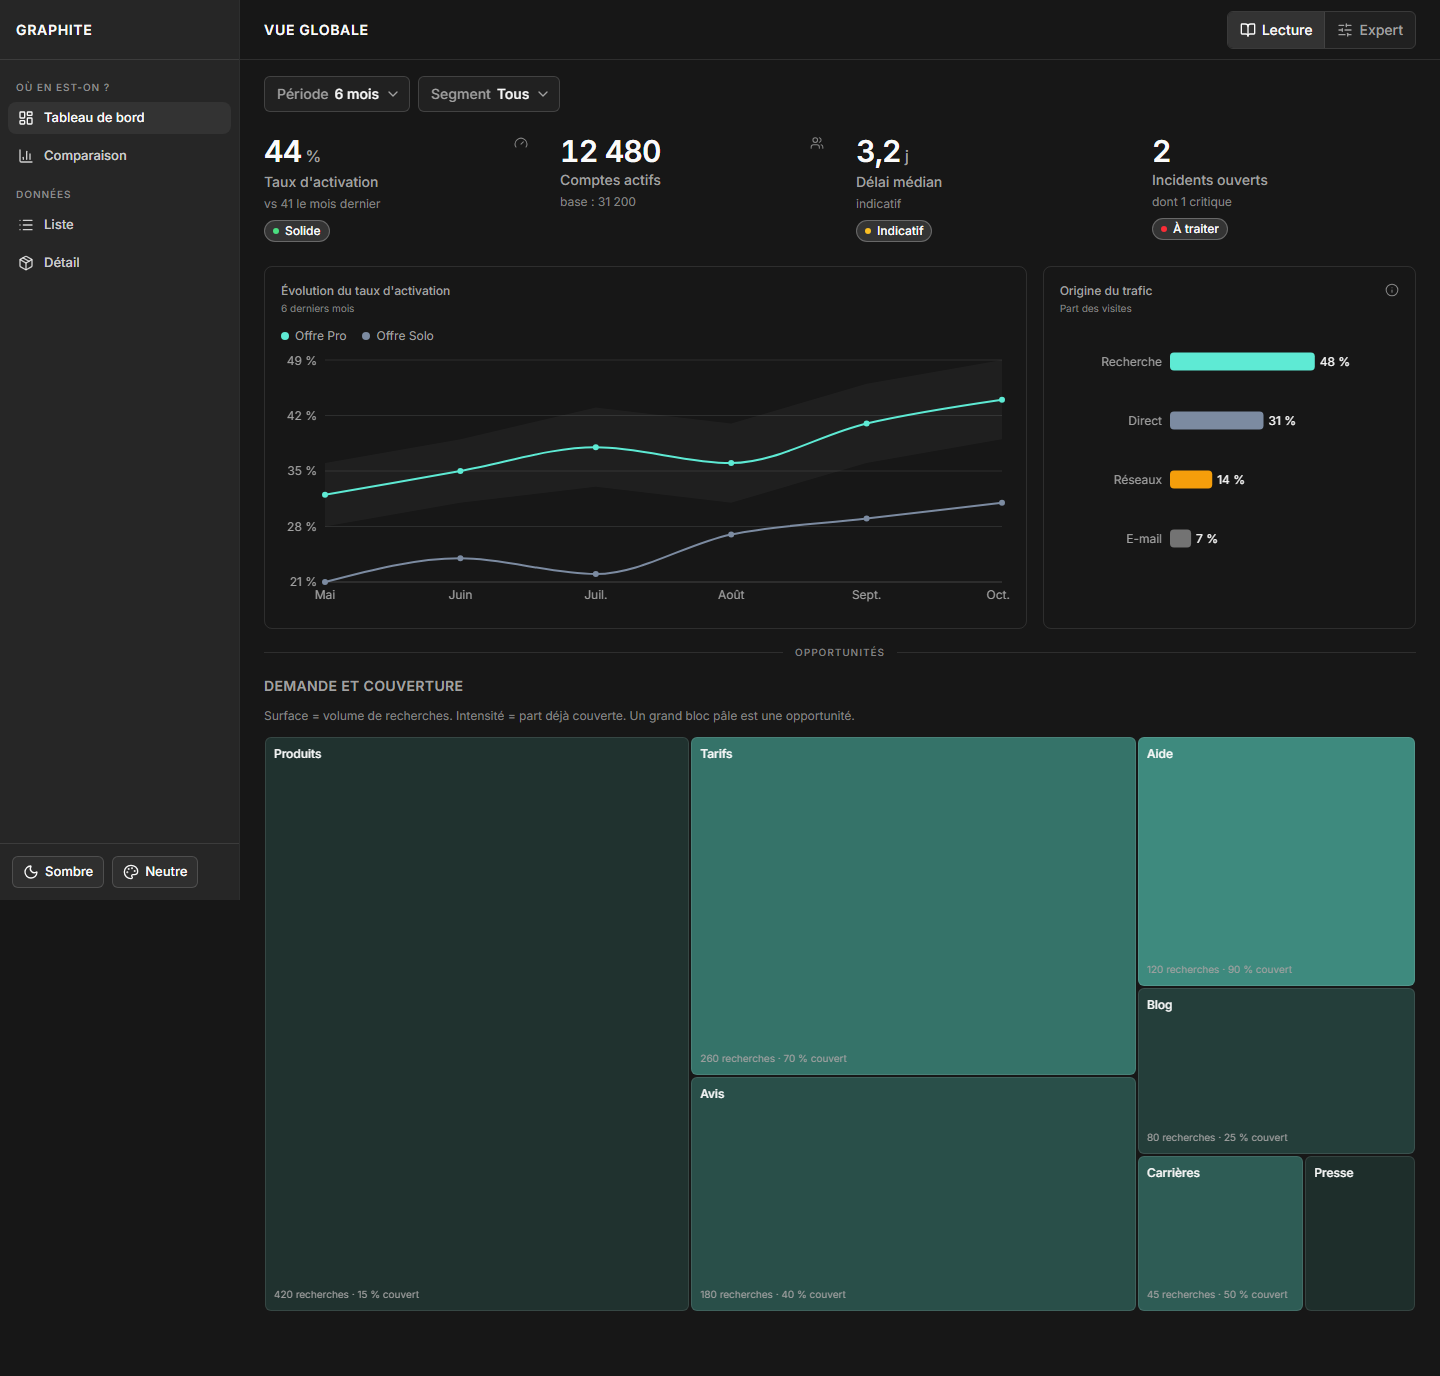
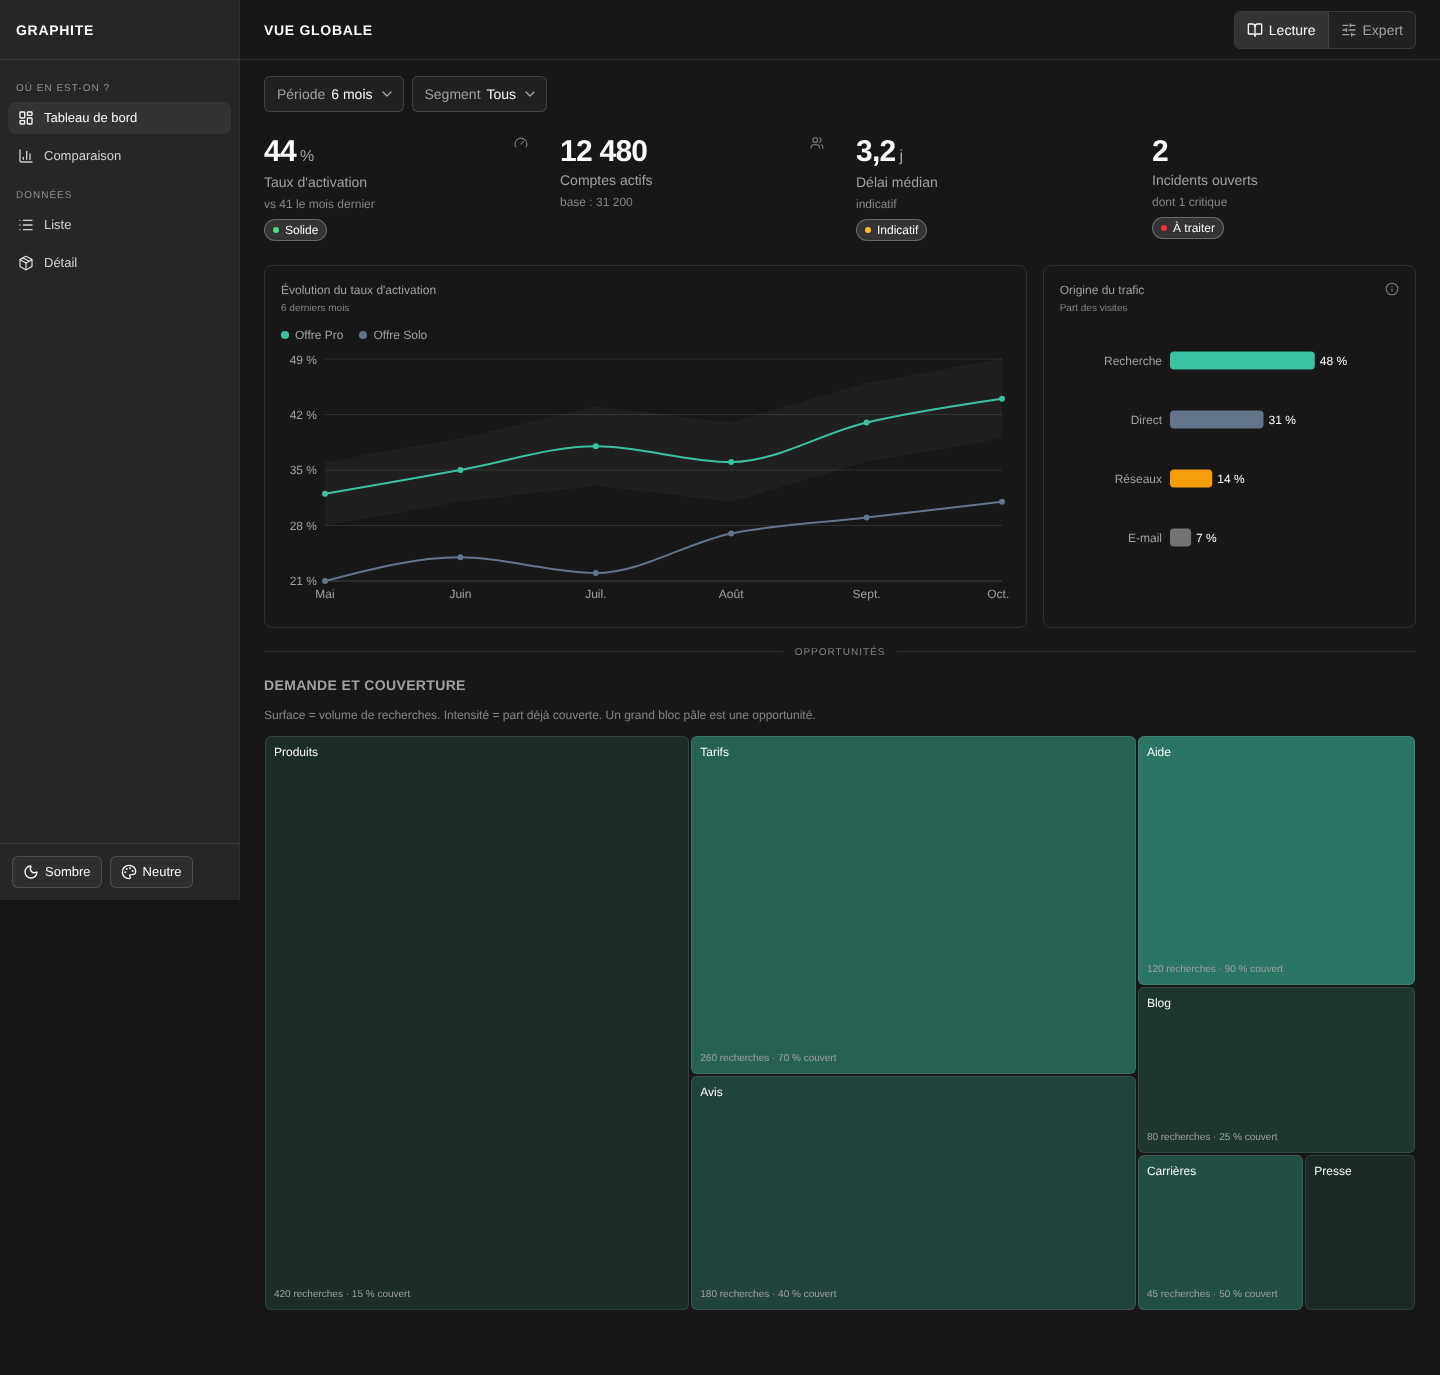
feat(theme): thème omnes aux couleurs de la charte Business Review (+ police Arial)
Claude-Session: https://claude.ai/code/session_01CoeabTFUugxgVetr36DZHo

diff --git a/src/__tests__/tokens.test.ts b/src/__tests__/tokens.test.ts
@@ -79,6 +79,25 @@ describe("thèmes de marque", () => {
   });
 });
 
+describe("marque omnes : charte « Business Review »", () => {
+  const o = tokens.brands.omnes;
+  it("reprend les trois couleurs de la charte et la police Arial", () => {
+    expect(o.dark.primary.toLowerCase()).toBe("#3bc2a2");
+    expect(o.dark["primary-foreground"].toLowerCase()).toBe("#120432");
+    expect(o.light.primary.toLowerCase()).toBe("#0014d0");
+    expect(o.light["chart-slate"].toLowerCase()).toBe("#120432");
+    expect(o.static["font-sans-stack"]).toMatch(/^Arial,/);
+  });
+
+  it("les séries et le primaire tiennent 3:1 sur la surface (éléments graphiques)", () => {
+    for (const [nom, t] of THEMES.filter(([n]) => n.startsWith("omnes/")))
+      for (const k of ["primary", "chart-green", "chart-slate"]) {
+        const ratio = contrast(t[k], t.background);
+        expect(ratio, `${nom} : ${k} sur background = ${ratio.toFixed(2)}`).toBeGreaterThanOrEqual(3);
+      }
+  });
+});
+
 describe("génération", () => {
   it("tokens.css et themes/*.css sont à jour avec tokens.json", () => {
     const lire = () =>

diff --git a/skills/graphite-ui/tokens/theme-omnes.css b/skills/graphite-ui/tokens/theme-omnes.css
@@ -1,16 +1,19 @@
 /* GÉNÉRÉ par scripts/build-tokens.mjs depuis tokens/tokens.json — ne pas modifier à la main. */
 
+[data-brand="omnes"] {
+  --font-sans-stack: Arial, "Helvetica Neue", Helvetica, sans-serif;
+}
+
 [data-brand="omnes"],
 [data-brand="omnes"][data-theme="dark"] {
-  --primary: oklch(80% 0.12 250);
-  --primary-foreground: oklch(20.5% 0 0);
-  --chart-green: #5eead4;
-  --chart-slate: #7c8ba1;
+  --primary: #3BC2A2;
+  --primary-foreground: #120432;
+  --chart-green: #3BC2A2;
 }
 
 [data-brand="omnes"][data-theme="light"] {
-  --primary: oklch(42% 0.15 255);
+  --primary: #0014D0;
   --primary-foreground: oklch(98.5% 0 0);
-  --chart-green: #0f766e;
-  --chart-slate: #475569;
+  --chart-green: #177d68;
+  --chart-slate: #120432;
 }

diff --git a/src/styles/themes/omnes.css b/src/styles/themes/omnes.css
@@ -1,16 +1,19 @@
 /* GÉNÉRÉ par scripts/build-tokens.mjs depuis tokens/tokens.json — ne pas modifier à la main. */
 
+[data-brand="omnes"] {
+  --font-sans-stack: Arial, "Helvetica Neue", Helvetica, sans-serif;
+}
+
 [data-brand="omnes"],
 [data-brand="omnes"][data-theme="dark"] {
-  --primary: oklch(80% 0.12 250);
-  --primary-foreground: oklch(20.5% 0 0);
-  --chart-green: #5eead4;
-  --chart-slate: #7c8ba1;
+  --primary: #3BC2A2;
+  --primary-foreground: #120432;
+  --chart-green: #3BC2A2;
 }
 
 [data-brand="omnes"][data-theme="light"] {
-  --primary: oklch(42% 0.15 255);
+  --primary: #0014D0;
   --primary-foreground: oklch(98.5% 0 0);
-  --chart-green: #0f766e;
-  --chart-slate: #475569;
+  --chart-green: #177d68;
+  --chart-slate: #120432;
 }

diff --git a/docs/THEMING.md b/docs/THEMING.md
@@ -3,7 +3,7 @@
 ## Mécanique
 
 - **Thème** : attribut `data-theme` sur `<html>` — `dark` (défaut, référence) ou `light`.
-- **Marque** : attribut `data-brand` sur `<html>` — absent = neutre ; `omnes` = thème d'exemple fourni.
+- **Marque** : attribut `data-brand` sur `<html>` — absent = neutre ; `omnes` = thème de la charte « Business Review » (violet nuit `#120432`, bleu électrique `#0014D0`, vert menthe `#3BC2A2`, police Arial ; Inter reste la police par défaut du cœur).
 - Les deux se combinent : `<html data-theme="light" data-brand="omnes">`.
 - Les tokens sont des variables CSS ; Tailwind v4 les expose en classes (`bg-card`, `text-muted`…) via `src/styles/theme.css`.
 
@@ -25,6 +25,8 @@ Une marque **ne change que quelques tokens** (≤ 6 par mode) : le primaire et, 
 2. `npm run tokens` — génère `src/styles/themes/monprojet.css`.
 3. `npm test` — vérifie le contraste (≥ 4,5:1) des 13 paires de texte dans chaque combinaison, et que la marque ne dépasse pas 6 tokens.
 4. Poser `data-brand="monprojet"` sur `<html>`.
+
+Une marque peut aussi poser des variables indépendantes du mode (ex. la police) dans un bloc `static` : `"static": { "font-sans-stack": "Arial, sans-serif" }`.
 
 ### Dans une app qui consomme le paquet (sans toucher à ce dépôt)
 
